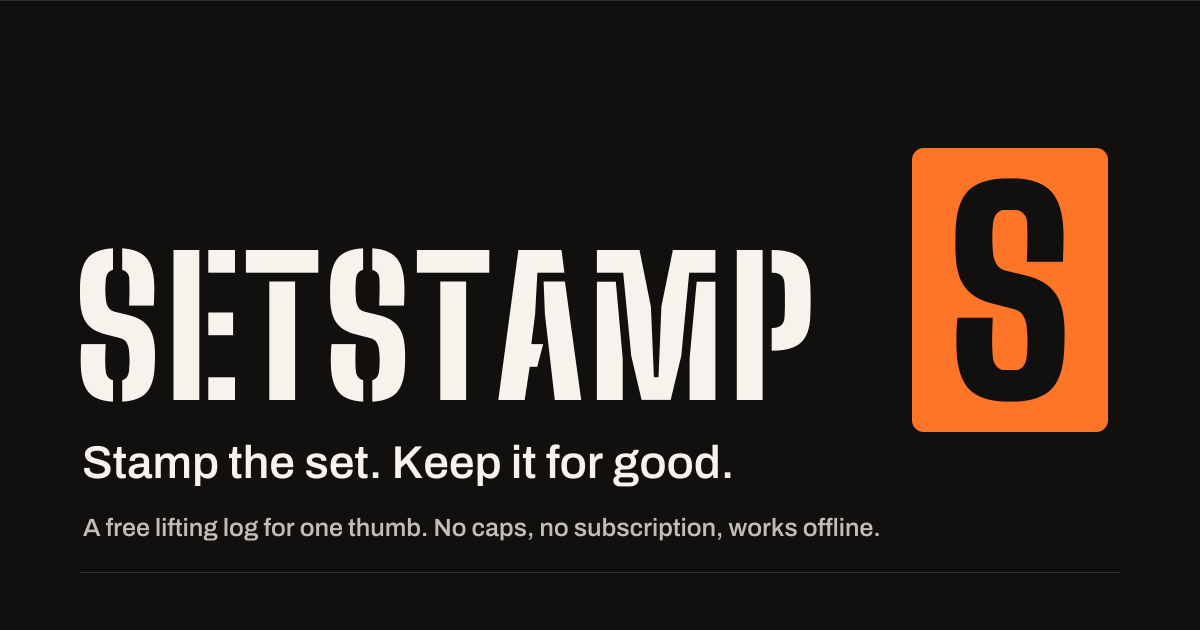
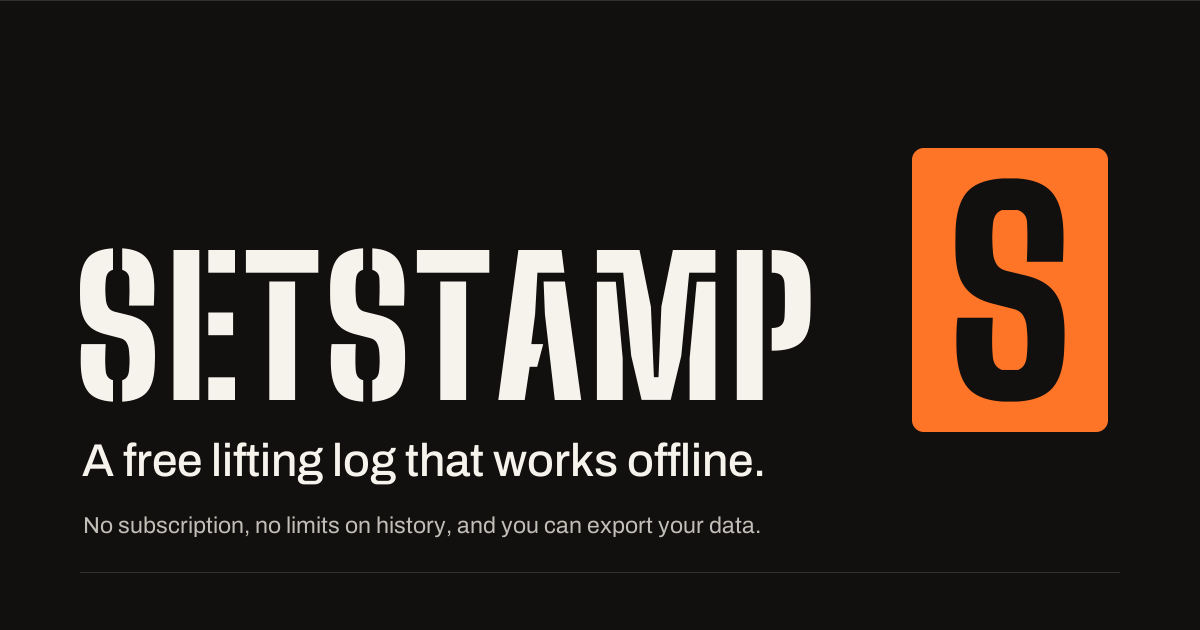
Rewrite product copy in plain language

Changed region(s): [[0.0617, 0.6937, 0.6475, 0.7841], [0.0617, 0.8143, 0.74, 0.8746]]

diff --git a/src/features/landing/Landing.tsx b/src/features/landing/Landing.tsx
@@ -58,23 +58,21 @@ export default function Landing() {
           <div className="lp-wrap lp-hero__grid">
             <div className="lp-hero__copy">
               <h1 id="lp-title" className="lp-hero__title display">
-                Log the set.
-                <br />
-                Keep every set.
+                A free lifting log that works offline
               </h1>
               <p className="lp-hero__lede">
-                A free lifting log built for one thumb between sets. It works offline on the gym floor, keeps your whole
-                history, and never asks for a subscription.
+                Log weight and reps with one hand between sets. It works without signal, keeps your full history, and
+                has no subscription.
               </p>
               <div className="lp-actions">
                 <CtaPrimary>Create free account</CtaPrimary>
                 <CtaSecondary>Sign in</CtaSecondary>
               </div>
-              <p className="lp-hero__fine">Free. No caps on history, programs or exercises. Export or delete your data any time.</p>
+              <p className="lp-hero__fine">Free, with no limits on history, programs or exercises. You can export or delete your data any time.</p>
             </div>
             <div className="lp-hero__visual">
               <Phone />
-              <p className="lp-caption">Sample session. The logging screen, at actual phone size.</p>
+              <p className="lp-caption">Sample session: the logging screen at actual phone size.</p>
             </div>
           </div>
         </section>
@@ -82,14 +80,14 @@ export default function Landing() {
         <section className="lp-band lp-plate" aria-labelledby="lp-how">
           <div className="lp-wrap">
             <h2 id="lp-how" className="lp-h2 display">
-              Pocket to logged set
+              How it works
             </h2>
             <ol className="lp-steps">
               <li>
                 <span className="lp-steps__n num" aria-hidden="true">1</span>
                 <div>
                   <h3>Open</h3>
-                  <p>Today shows the next day of your program. Missed a session? The queue waits; nothing shifts to the wrong weekday.</p>
+                  <p>Today shows the next day of your program. If you miss a session, it stays next in line instead of moving to a different weekday.</p>
                 </div>
               </li>
               <li>
@@ -103,7 +101,7 @@ export default function Landing() {
                 <span className="lp-steps__n num" aria-hidden="true">3</span>
                 <div>
                   <h3>See progress</h3>
-                  <p>Personal records, estimated 1RM and weekly sets per muscle, each labelled for what it is.</p>
+                  <p>Check personal records, estimated 1RM and weekly sets per muscle. Estimates are labelled as estimates.</p>
                 </div>
               </li>
             </ol>
@@ -113,16 +111,15 @@ export default function Landing() {
         <section className="lp-band lp-orange" aria-labelledby="lp-free">
           <div className="lp-wrap lp-free">
             <h2 id="lp-free" className="lp-free__title display">
-              Free means whole.
+              Everything is free
             </h2>
             <div className="lp-free__body">
               <p>
-                Most trackers let you log for free, then charge for the rest: routine slots, older history, the charts that
-                show whether you're getting stronger.
+                Many trackers let you log for free and charge for extra routines, older history or progress charts.
               </p>
               <p>
-                Here nothing is capped and nothing is a teaser. Every set you log stays, and every screen works the same on
-                day one as on day five hundred.
+                Setstamp has no paid tier. There are no limits on routines or history, and every feature is available
+                from the start.
               </p>
             </div>
           </div>
@@ -131,23 +128,23 @@ export default function Landing() {
         <section className="lp-band lp-steel" aria-labelledby="lp-what">
           <div className="lp-wrap">
             <h2 id="lp-what" className="lp-h2 display">
-              What's in it
+              What's included
             </h2>
             <dl className="lp-spec">
               <Spec icon={<IconCloudOff />} term="Works offline">
-                Every set saves to your phone first and syncs when you're back on signal. A basement gym with no bars is fine.
+                Sets save to your phone first and sync when you're back online, so logging works with no signal.
               </Spec>
-              <Spec icon={<IconDumbbell />} term="One-thumb logging">
-                Stamped numbers you can read at arm's length, big plus and minus keys, and the next action low on the screen.
+              <Spec icon={<IconDumbbell />} term="One-handed logging">
+                Large numbers you can read at arm's length, big plus and minus buttons, and the main button near the bottom of the screen.
               </Spec>
               <Spec icon={<IconSearch />} term="1,383 exercises">
-                Searched on the device, so it's instant, and forgiving of typos and gym nicknames. Add your own when one's missing.
+                Search runs on your phone, so results are instant, and it handles typos and common nicknames. You can add your own exercises.
               </Spec>
               <Spec icon={<IconProgram />} term="Programs">
                 Upper/lower, push/pull/legs and full-body templates, or build your own day by day.
               </Spec>
               <Spec icon={<IconProgress />} term="Body-map coverage">
-                See which muscles got work this week, as estimated sets per muscle. A training picture, not a diagnosis.
+                See which muscles you trained this week as estimated sets per muscle. It's an estimate, not a diagnosis.
               </Spec>
               <Spec icon={<IconDownload />} term="Your data">
                 Export everything as JSON or CSV. Delete your account and your data goes with it.
@@ -180,11 +177,11 @@ export default function Landing() {
         <section className="lp-band lp-plate" aria-labelledby="lp-install">
           <div className="lp-wrap lp-final">
             <h2 id="lp-install" className="lp-h2 display">
-              No app store. Just your home screen.
+              Install it on your phone
             </h2>
             <p className="lp-final__lede">
-              Create an account here, then add Setstamp to your home screen from your browser. It opens full screen from its own
-              icon and keeps working without signal. On iPhone you'll sign in once more inside the home-screen app.
+              Create an account here, then add Setstamp to your home screen from your browser. No app store needed. It opens
+              full screen from its own icon and works without signal. On iPhone you'll sign in once more inside the home-screen app.
             </p>
             <div className="lp-actions">
               <CtaPrimary>Create free account</CtaPrimary>

diff --git a/index.html b/index.html
@@ -6,11 +6,11 @@
     <title>Setstamp: a free lifting log that works offline</title>
     <meta
       name="description"
-      content="Log every set with one thumb. Free, no caps on history or programs, works offline in the gym, with 1,383 searchable exercises, body-map coverage and export."
+      content="A free lifting log that works offline. No limits on history or programs, 1,383 searchable exercises, muscle coverage charts and data export."
     />
     <meta property="og:type" content="website" />
     <meta property="og:site_name" content="Setstamp" />
-    <meta property="og:title" content="Setstamp: log the set, keep every set" />
+    <meta property="og:title" content="Setstamp: a free lifting log that works offline" />
     <meta property="og:url" content="https://koala3353.github.io/setstamp/" />
     <meta property="og:image" content="https://koala3353.github.io/setstamp/og.png" />
     <meta property="og:image:width" content="1200" />
@@ -18,12 +18,12 @@
     <meta property="og:image:alt" content="Setstamp" />
     <meta
       property="og:description"
-      content="A free lifting log built for one thumb between sets. Works offline, keeps your whole history, never asks for a subscription."
+      content="A free lifting log for your phone. It works offline, keeps your full history and has no subscription."
     />
     <meta name="twitter:card" content="summary_large_image" />
-    <meta name="twitter:title" content="Setstamp: log the set, keep every set" />
+    <meta name="twitter:title" content="Setstamp: a free lifting log that works offline" />
     <meta name="twitter:image" content="https://koala3353.github.io/setstamp/og.png" />
-    <meta name="twitter:description" content="A free lifting log built for one thumb between sets. Works offline, keeps your whole history." />
+    <meta name="twitter:description" content="A free lifting log for your phone. It works offline and keeps your full history." />
     <meta name="theme-color" content="#ebe9e6" media="(prefers-color-scheme: light)" />
     <meta name="theme-color" content="#12100e" media="(prefers-color-scheme: dark)" />
     <meta name="mobile-web-app-capable" content="yes" />

diff --git a/src/features/progress/ProgressView.tsx b/src/features/progress/ProgressView.tsx
@@ -120,8 +120,8 @@ function Overview() {
           (history.length === 0 ? (
             <EmptyState icon={<IconHistory />} title="No finished workouts yet">
               <p>
-                Every workout you finish lands here, newest first: date, length, working sets and volume. Nothing is capped or trimmed after
-                a few months.
+                Finished workouts are listed here, newest first, with date, length, working sets and volume. Your full history is
+                kept.
               </p>
             </EmptyState>
           ) : (
@@ -154,7 +154,7 @@ function ExerciseList() {
   const list = useMemo(() => loggedExercises(sets, sessions), [sets, sessions]);
   if (list.length === 0) {
     return (
-      <EmptyState icon={<IconRecord />} title="Records start with your first sets">
+      <EmptyState icon={<IconRecord />} title="No records yet">
         <p>
           Each exercise you log gets its own page: heaviest weight at each rep count, best estimated 1RM, most reps or longest hold, and a
           session-by-session trend.

diff --git a/src/features/install/InstallPrompt.tsx b/src/features/install/InstallPrompt.tsx
@@ -137,16 +137,16 @@ export function InstallSheet({
     <Sheet
       open={open}
       onClose={onSnooze}
-      title="Put Setstamp on your home screen"
-      description="It opens full screen from its own icon, straight into your log, and works offline."
+      title="Add Setstamp to your home screen"
+      description="It opens full screen from its own icon and works offline."
       footer={footer}
       className="inst-sheet"
     >
       {platform === "prompt" && (
         <ul className="inst-points">
-          <li>One tap from your home screen to the next set.</li>
-          <li>No browser bars taking up room while you log.</li>
-          <li>You stay signed in. Nothing to download from a store.</li>
+          <li>Open it from your home screen with one tap.</li>
+          <li>It runs full screen, without the browser's address bar.</li>
+          <li>You stay signed in, and there's no app store download.</li>
         </ul>
       )}
       {platform === "ios" && (

diff --git a/docs/email-previews/email-changed.html b/docs/email-previews/email-changed.html
@@ -40,7 +40,7 @@ a{color:#181613}
 </table>
 </td></tr>
 <tr><td style="padding:20px 4px 0;font-family:Archivo,'Helvetica Neue',Helvetica,Arial,sans-serif;font-size:13px;line-height:20px;color:#5f5a55">You got this because this address belongs to a Setstamp account. We send it for every change to your sign-in details.</td></tr>
-<tr><td style="padding:12px 4px 0;font-family:Archivo,'Helvetica Neue',Helvetica,Arial,sans-serif;font-size:13px;line-height:20px;color:#5f5a55"><strong style="font-weight:700;color:#4b4742">Setstamp</strong>. Stamp the set. Keep it for good.</td></tr>
+<tr><td style="padding:12px 4px 0;font-family:Archivo,'Helvetica Neue',Helvetica,Arial,sans-serif;font-size:13px;line-height:20px;color:#5f5a55"><strong style="font-weight:700;color:#4b4742">Setstamp</strong>. A free lifting log that works offline.</td></tr>
 </table>
 <!--[if mso]></td></tr></table><![endif]-->
 </td></tr>

diff --git a/docs/email-previews/password-changed.html b/docs/email-previews/password-changed.html
@@ -40,7 +40,7 @@ a{color:#181613}
 </table>
 </td></tr>
 <tr><td style="padding:20px 4px 0;font-family:Archivo,'Helvetica Neue',Helvetica,Arial,sans-serif;font-size:13px;line-height:20px;color:#5f5a55">You got this because this address belongs to a Setstamp account. We send it for every change to your sign-in details.</td></tr>
-<tr><td style="padding:12px 4px 0;font-family:Archivo,'Helvetica Neue',Helvetica,Arial,sans-serif;font-size:13px;line-height:20px;color:#5f5a55"><strong style="font-weight:700;color:#4b4742">Setstamp</strong>. Stamp the set. Keep it for good.</td></tr>
+<tr><td style="padding:12px 4px 0;font-family:Archivo,'Helvetica Neue',Helvetica,Arial,sans-serif;font-size:13px;line-height:20px;color:#5f5a55"><strong style="font-weight:700;color:#4b4742">Setstamp</strong>. A free lifting log that works offline.</td></tr>
 </table>
 <!--[if mso]></td></tr></table><![endif]-->
 </td></tr>

diff --git a/docs/email-previews/confirm-email-change.html b/docs/email-previews/confirm-email-change.html
@@ -40,7 +40,7 @@ a{color:#181613}
 </table>
 </td></tr>
 <tr><td style="padding:20px 4px 0;font-family:Archivo,'Helvetica Neue',Helvetica,Arial,sans-serif;font-size:13px;line-height:20px;color:#5f5a55">You got this because someone used this address on Setstamp. If it wasn&#39;t you, ignore this email.</td></tr>
-<tr><td style="padding:12px 4px 0;font-family:Archivo,'Helvetica Neue',Helvetica,Arial,sans-serif;font-size:13px;line-height:20px;color:#5f5a55"><strong style="font-weight:700;color:#4b4742">Setstamp</strong>. Stamp the set. Keep it for good.</td></tr>
+<tr><td style="padding:12px 4px 0;font-family:Archivo,'Helvetica Neue',Helvetica,Arial,sans-serif;font-size:13px;line-height:20px;color:#5f5a55"><strong style="font-weight:700;color:#4b4742">Setstamp</strong>. A free lifting log that works offline.</td></tr>
 </table>
 <!--[if mso]></td></tr></table><![endif]-->
 </td></tr>

diff --git a/docs/email-previews/generic.html b/docs/email-previews/generic.html
@@ -40,7 +40,7 @@ a{color:#181613}
 </table>
 </td></tr>
 <tr><td style="padding:20px 4px 0;font-family:Archivo,'Helvetica Neue',Helvetica,Arial,sans-serif;font-size:13px;line-height:20px;color:#5f5a55">You got this because someone used this address on Setstamp. If it wasn&#39;t you, ignore this email.</td></tr>
-<tr><td style="padding:12px 4px 0;font-family:Archivo,'Helvetica Neue',Helvetica,Arial,sans-serif;font-size:13px;line-height:20px;color:#5f5a55"><strong style="font-weight:700;color:#4b4742">Setstamp</strong>. Stamp the set. Keep it for good.</td></tr>
+<tr><td style="padding:12px 4px 0;font-family:Archivo,'Helvetica Neue',Helvetica,Arial,sans-serif;font-size:13px;line-height:20px;color:#5f5a55"><strong style="font-weight:700;color:#4b4742">Setstamp</strong>. A free lifting log that works offline.</td></tr>
 </table>
 <!--[if mso]></td></tr></table><![endif]-->
 </td></tr>

diff --git a/docs/email-previews/password-reset.html b/docs/email-previews/password-reset.html
@@ -40,7 +40,7 @@ a{color:#181613}
 </table>
 </td></tr>
 <tr><td style="padding:20px 4px 0;font-family:Archivo,'Helvetica Neue',Helvetica,Arial,sans-serif;font-size:13px;line-height:20px;color:#5f5a55">You got this because someone used this address on Setstamp. If it wasn&#39;t you, ignore this email.</td></tr>
-<tr><td style="padding:12px 4px 0;font-family:Archivo,'Helvetica Neue',Helvetica,Arial,sans-serif;font-size:13px;line-height:20px;color:#5f5a55"><strong style="font-weight:700;color:#4b4742">Setstamp</strong>. Stamp the set. Keep it for good.</td></tr>
+<tr><td style="padding:12px 4px 0;font-family:Archivo,'Helvetica Neue',Helvetica,Arial,sans-serif;font-size:13px;line-height:20px;color:#5f5a55"><strong style="font-weight:700;color:#4b4742">Setstamp</strong>. A free lifting log that works offline.</td></tr>
 </table>
 <!--[if mso]></td></tr></table><![endif]-->
 </td></tr>

diff --git a/docs/email-previews/verify-email.html b/docs/email-previews/verify-email.html
@@ -40,7 +40,7 @@ a{color:#181613}
 </table>
 </td></tr>
 <tr><td style="padding:20px 4px 0;font-family:Archivo,'Helvetica Neue',Helvetica,Arial,sans-serif;font-size:13px;line-height:20px;color:#5f5a55">You got this because someone used this address on Setstamp. If it wasn&#39;t you, ignore this email.</td></tr>
-<tr><td style="padding:12px 4px 0;font-family:Archivo,'Helvetica Neue',Helvetica,Arial,sans-serif;font-size:13px;line-height:20px;color:#5f5a55"><strong style="font-weight:700;color:#4b4742">Setstamp</strong>. Stamp the set. Keep it for good.</td></tr>
+<tr><td style="padding:12px 4px 0;font-family:Archivo,'Helvetica Neue',Helvetica,Arial,sans-serif;font-size:13px;line-height:20px;color:#5f5a55"><strong style="font-weight:700;color:#4b4742">Setstamp</strong>. A free lifting log that works offline.</td></tr>
 </table>
 <!--[if mso]></td></tr></table><![endif]-->
 </td></tr>

diff --git a/src/features/settings/SettingsView.tsx b/src/features/settings/SettingsView.tsx
@@ -333,7 +333,7 @@ function EquipmentPicker({ value, onChange }: { value: Equipment[]; onChange: (v
       </ChipRow>
       <p className="muted small">
         {full
-          ? "Full gym: every exercise is fair game. Pick items to limit substitutions and suggestions to what you have."
+          ? "Full gym: all exercises are included. Pick items to limit substitutions and suggestions to what you have."
           : "Substitutions and suggestions stick to these. Bodyweight exercises are always allowed. Tap Full gym to clear."}
       </p>
     </div>

diff --git a/src/app/screens/ProgramScreen.tsx b/src/app/screens/ProgramScreen.tsx
@@ -106,7 +106,7 @@ function TemplateChooser({
     <div className="screen">
       {!hasActive && (
         <EmptyState icon={<IconProgram />} title="No program yet">
-          <p>Programs run as a rolling queue. Finish or skip a day and the next one moves up; there are no fixed weekdays to fall behind on.</p>
+          <p>A program is a list of days that you work through in order. When you finish or skip a day, the next one comes up. Days aren't tied to weekdays.</p>
         </EmptyState>
       )}
       {onCancel && (
